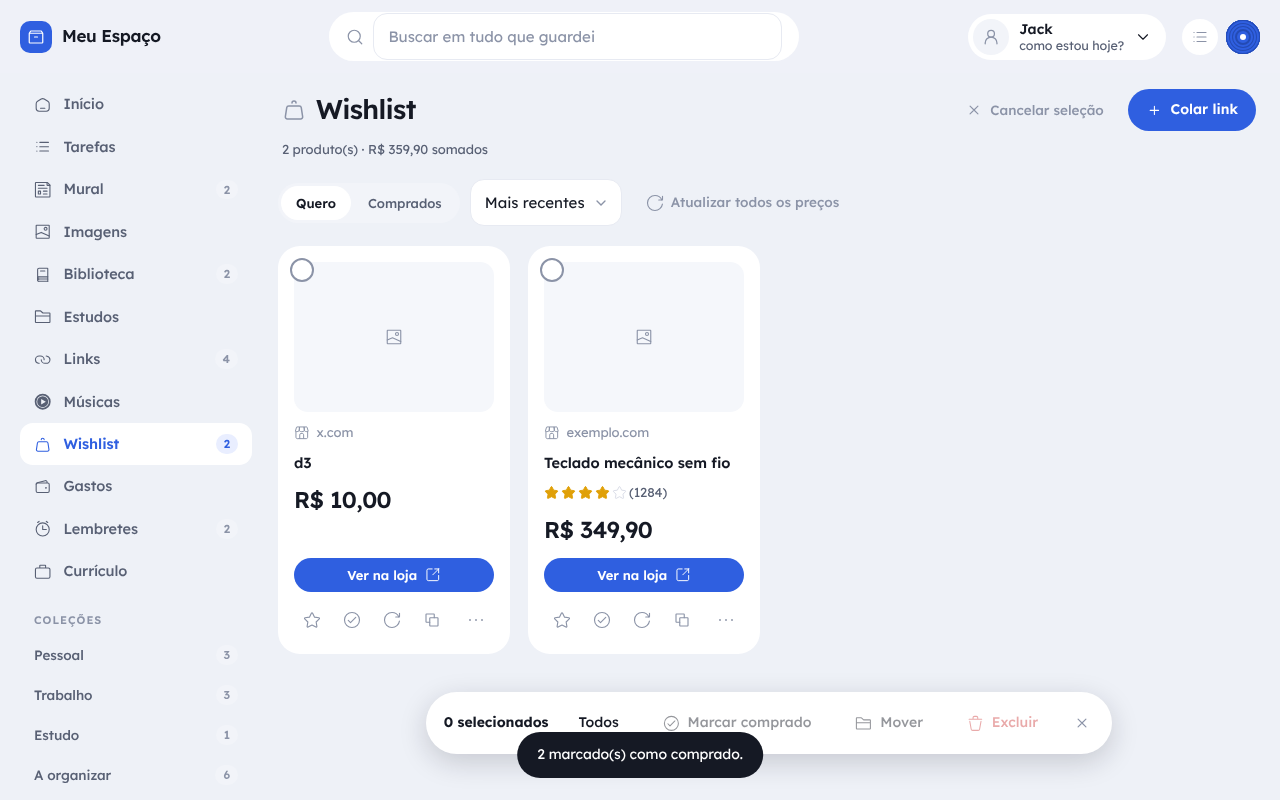
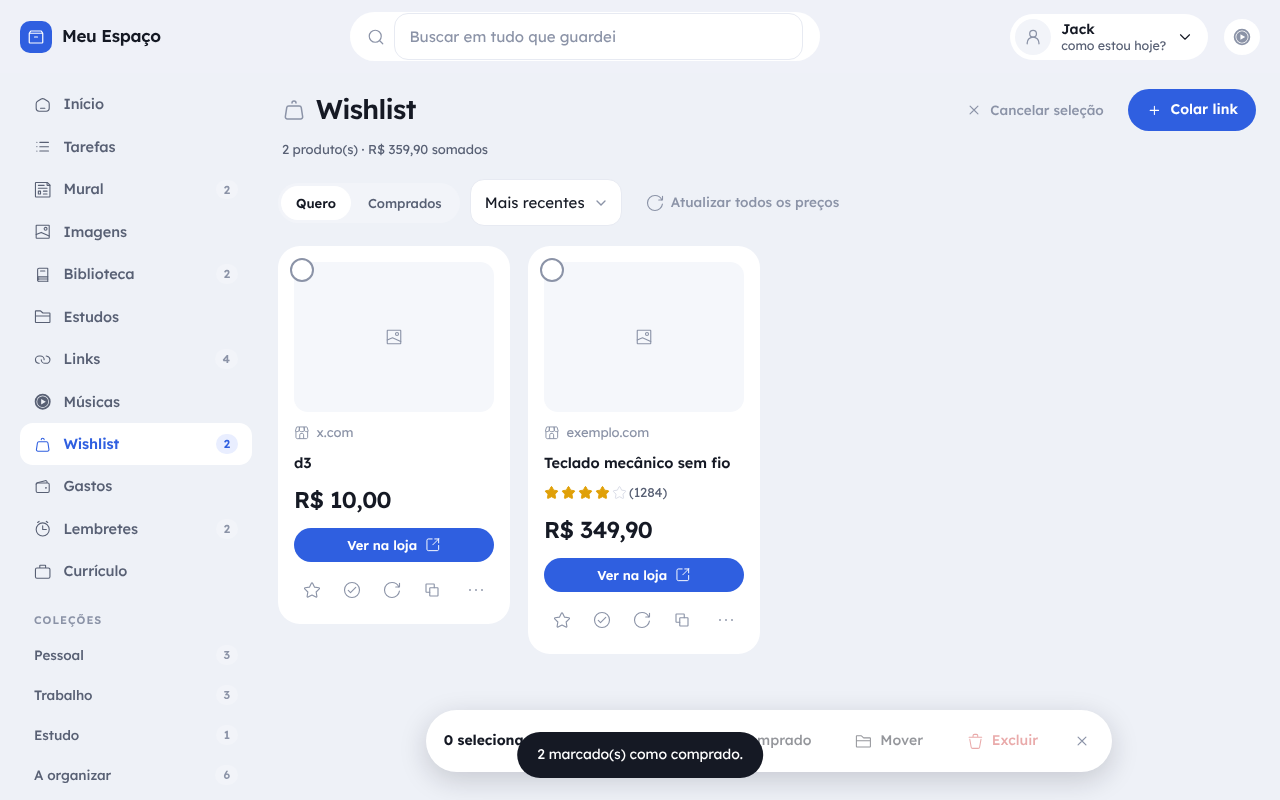
Modo escuro: contraste do aviso de versão e menu de seleção; seleção em lote ignora post-it aninhado
Claude-Session: https://claude.ai/code/session_016SegfhJSHDTXjMwqePjPmg

diff --git a/assets/css/estilo.css b/assets/css/estilo.css
@@ -1154,7 +1154,8 @@ body.arrastando-ord, body.arrastando-ord * { cursor: grabbing !important; user-s
 .sel-modo.sel-marcada { box-shadow: 0 0 0 2px var(--tinta); }
 .sel-caixa { position: absolute; top: 12px; left: 12px; z-index: 2; width: 24px; height: 24px; border-radius: 50%; background: var(--cartao); border: 2px solid var(--tinta-3); display: grid; place-items: center; color: transparent; }
 .sel-caixa .ico { width: 14px; height: 14px; }
-.sel-marcada .sel-caixa { background: var(--tinta); border-color: var(--tinta); color: #fff; }
+.sel-marcada .sel-caixa { background: var(--tinta); border-color: var(--tinta); color: var(--cartao); }
+.post.sel-modo .post-cab { padding-left: 32px; }
 .barra-sel { position: sticky; bottom: 16px; z-index: 40; margin: 18px auto 0; width: fit-content; max-width: 100%; display: flex; align-items: center; flex-wrap: wrap; gap: 8px; padding: 10px 12px 10px 18px; background: var(--cartao); border-radius: 999px; box-shadow: 0 8px 28px rgba(20,24,40,.18); }
 .barra-sel strong { font-size: 14px; margin-right: 4px; }
 .barra-sel button[disabled] { opacity: .45; pointer-events: none; }
@@ -1163,6 +1164,13 @@ body.arrastando-ord, body.arrastando-ord * { cursor: grabbing !important; user-s
 /* ---------- mosaico (cards se encaixam nos vãos) ---------- */
 .mosaico { row-gap: 0 !important; grid-auto-rows: 1px !important; align-items: start !important; }
 .mosaico > * { margin-bottom: var(--gap-m, 16px); align-self: start; }
+
+/* ---------- modo escuro: avisos e menus que eram claros sobre escuro ---------- */
+:root[data-modo="escuro"] .aviso-pwa { background: #2b323f; color: var(--tinta); box-shadow: 0 8px 28px rgba(0,0,0,.5); }
+:root[data-modo="escuro"] .aviso-pwa .aviso-btn { background: var(--marca); color: var(--marca-texto); }
+:root[data-modo="escuro"] .aviso-pwa .aviso-x { color: var(--tinta); }
+:root[data-modo="escuro"] .menu-selecao { background: #2b323f; color: var(--tinta); }
+:root[data-modo="escuro"] .menu-selecao button { color: var(--tinta); }
 
 /* ---------- telas menores (no fim do arquivo para ganhar de tudo) ---------- */
 @media (max-width: 1180px) {

diff --git a/assets/js/app.js b/assets/js/app.js
@@ -2231,7 +2231,7 @@
     const l = c.querySelector('a[href^="#/item/"]'), d = c.querySelector('[data-id]');
     return c.dataset.id || c.dataset.imagem || (l && l.getAttribute('href').slice(7)) || (d && d.dataset.id) || '';
   };
-  const cartoesSel = () => [...main.querySelectorAll(SEL_CARTOES)].filter((c) => item(idCartao(c)));
+  const cartoesSel = () => [...main.querySelectorAll(SEL_CARTOES)].filter((c) => !c.parentElement.closest(SEL_CARTOES) && item(idCartao(c)));
   function alternarSel(id) { const k = UI.sel.indexOf(id); if (k < 0) UI.sel.push(id); else UI.sel.splice(k, 1); render(); }
   function prepararSelecao(rota) {
     if (!SEL_ROTAS.includes(rota)) return;
@@ -2946,8 +2946,8 @@
     const sel = document.getElementById('menu-selecao');
     if (sel && !sel.hidden && !sel.contains(e.target)) sel.hidden = true;
     if (selAtiva() && main.contains(e.target) && !e.target.closest('.barra-sel, details.menu')) {
-      const cartao = e.target.closest(SEL_CARTOES);
-      if (cartao && item(idCartao(cartao))) { e.preventDefault(); e.stopPropagation(); return alternarSel(idCartao(cartao)); }
+      const cartao = cartoesSel().find((x) => x.contains(e.target));
+      if (cartao) { e.preventDefault(); e.stopPropagation(); return alternarSel(idCartao(cartao)); }
     }
     const cartaoLink = e.target.closest('a[href^="#/item/"]');
     if (cartaoLink && !cartaoLink.dataset.act && !e.metaKey && !e.ctrlKey && !e.shiftKey && !e.altKey && e.button === 0 && rotaAtual()[0] !== 'item') {

diff --git a/assets/js/atualizacoes.js b/assets/js/atualizacoes.js
@@ -14,6 +14,7 @@ window.ATUALIZACOES = [
     data: '2026-11-13',
     titulo: 'Selecionar em lote, pontinhos e captura Mercado Livre',
     itens: [
+      'Modo escuro: o aviso “Há uma versão nova” e o menu de texto selecionado agora têm contraste legível (antes ficavam claro sobre claro).',
       'A previsão do tempo ficou compacta (cidade, temperatura e máx/mín) e abre os detalhes e os próximos dias ao clicar.',
       'Os cards se encaixam nos vãos no Mural, Links, Wishlist e nas coleções: um card baixo deixa o seguinte subir para ocupar o espaço vazio, também ao arrastar.',
       'Ao lado do perfil, saiu o botão do modo trabalho (continua em Shift + Espaço) e o disco de música virou o ícone do YouTube Music, que acende com a cor do tema quando algo está tocando.',

diff --git a/docs/ATUALIZACOES.md b/docs/ATUALIZACOES.md
@@ -10,6 +10,7 @@ Como escrever: uma linha por novidade, do jeito que a pessoa percebe na tela —
 
 ## 5.14 — 13/11/2026 · Selecionar em lote, pontinhos e captura Mercado Livre
 
+- Modo escuro: o aviso “Há uma versão nova” e o menu de texto selecionado agora têm contraste legível (antes ficavam claro sobre claro).
 - A previsão do tempo ficou compacta (cidade, temperatura e máx/mín) e abre os detalhes e os próximos dias ao clicar.
 - Os cards se encaixam nos vãos no Mural, Links, Wishlist e nas coleções: um card baixo deixa o seguinte subir para ocupar o espaço vazio, também ao arrastar.
 - Ao lado do perfil, saiu o botão do modo trabalho (continua em Shift + Espaço) e o disco de música virou o ícone do YouTube Music, que acende com a cor do tema quando algo está tocando.
